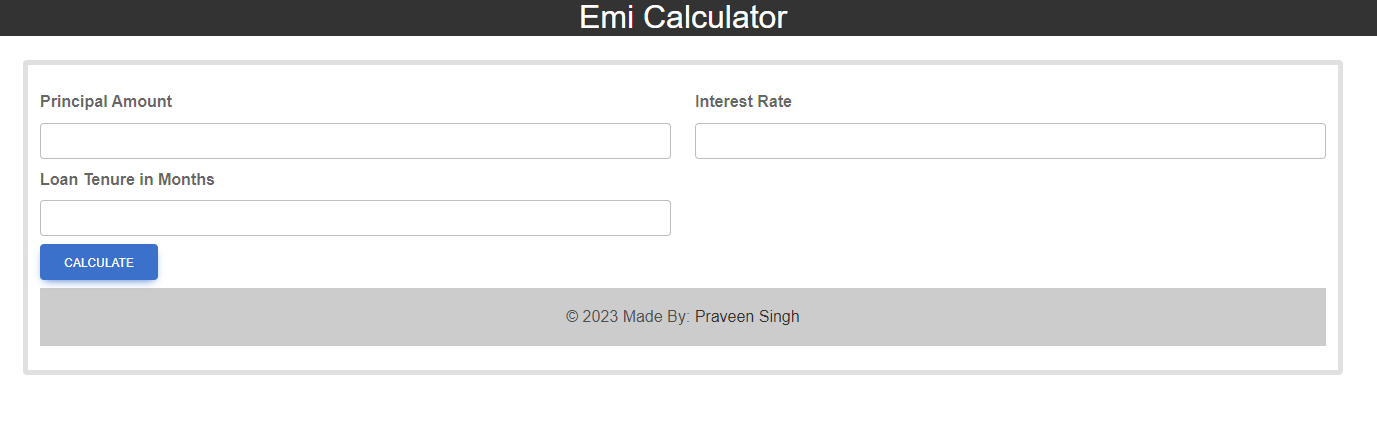
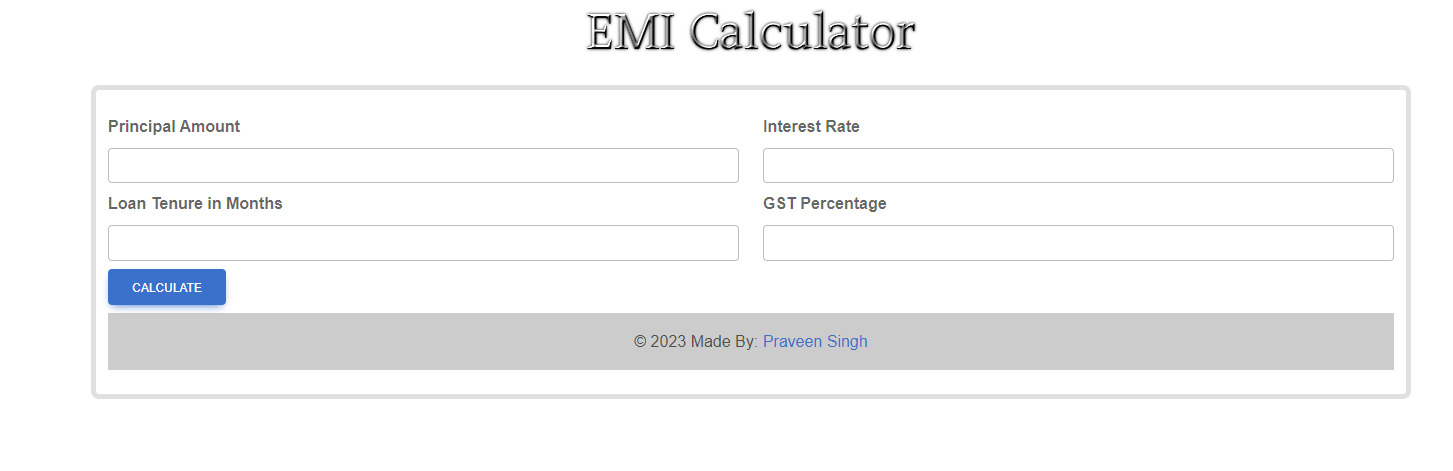
:recycle: Completed

Changed region(s): [[0.0, 0.0, 1.0, 0.851], [0.4996, 0.3521, 0.5309, 0.3815]]

diff --git a/src/EmiCalculator.jsx b/src/EmiCalculator.jsx
@@ -79,7 +79,7 @@ const EMICalculator = () => {
   return (
     <>
       <h2 className="mb-4 text-center text-white ">
-        <img src="https://images.cooltext.com/5672866.png" alt="" srcSet="" />
+        <img src="./public/logo.png" alt="EMI Cal Logo"  />
       </h2>
       <Container className="py-4 border my-3 border-5 rounded-3">
         <Form onSubmit={handleSubmit}>
